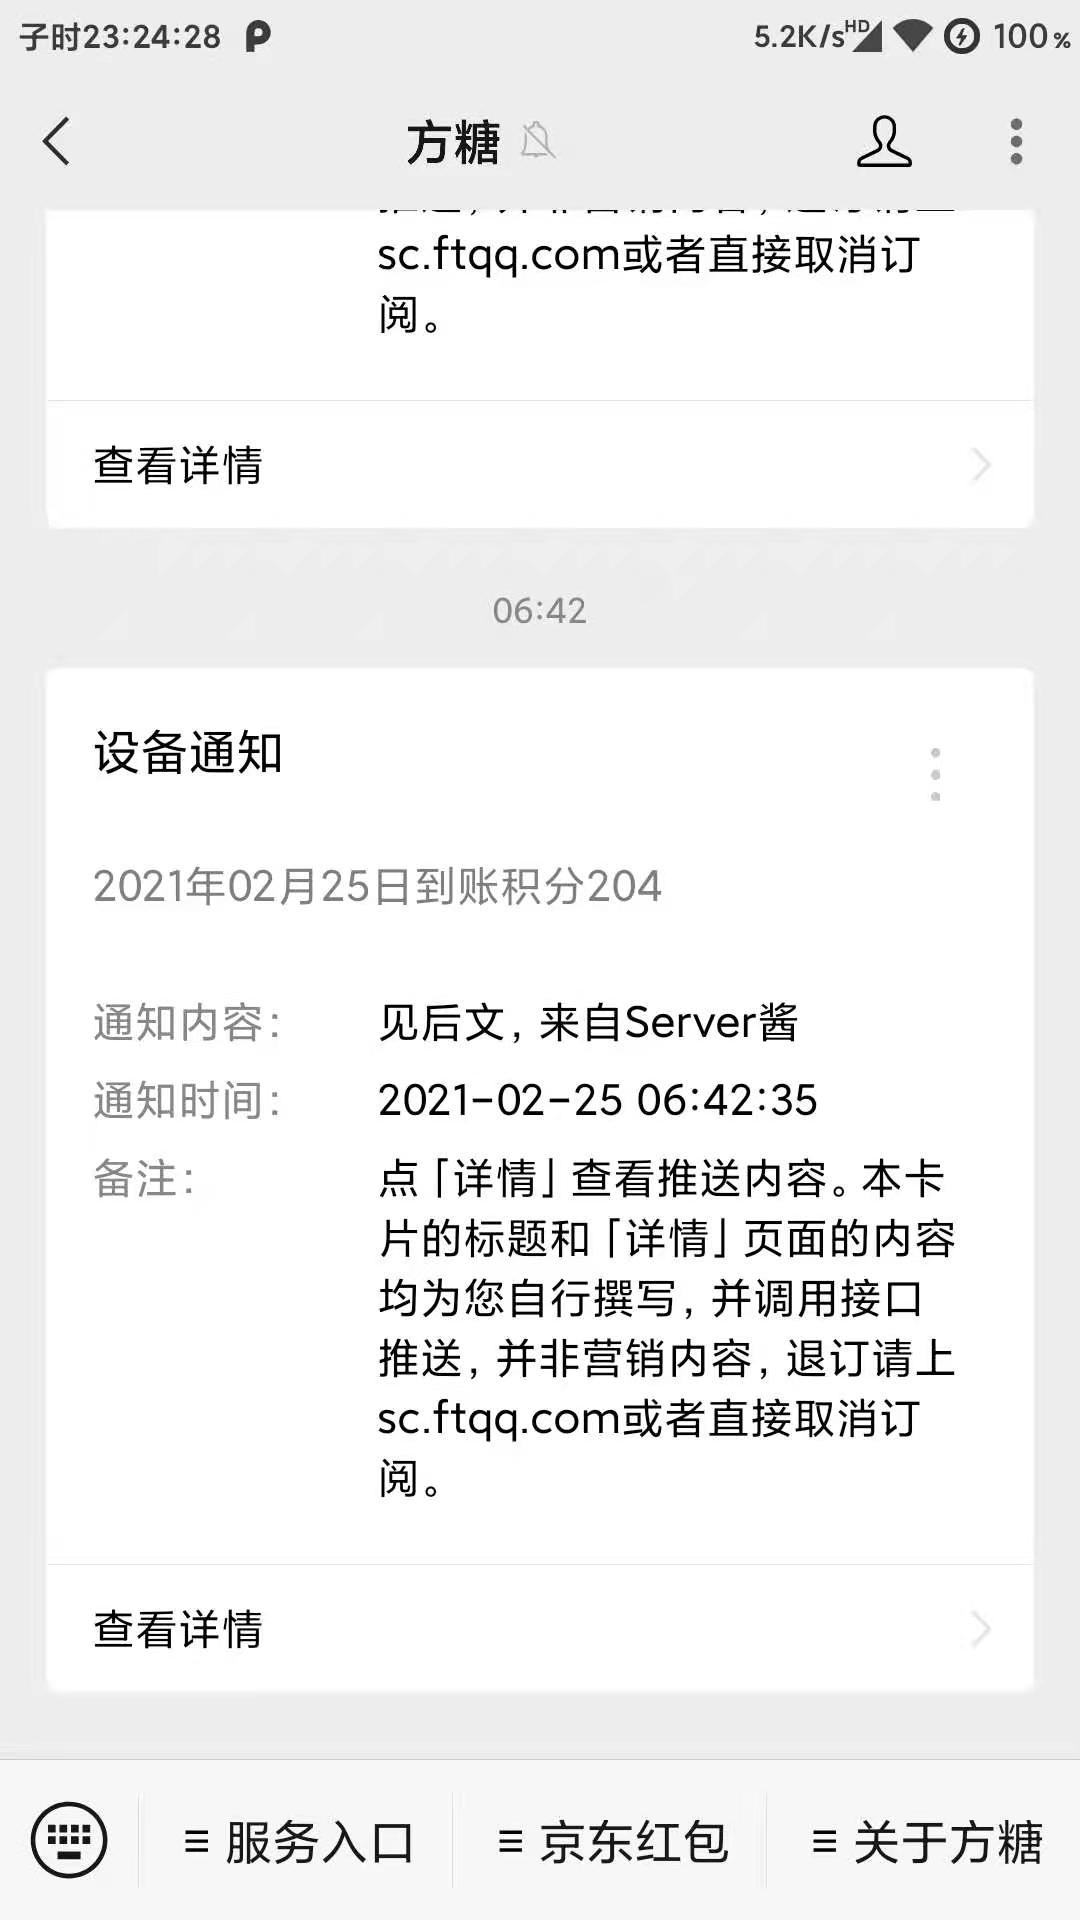
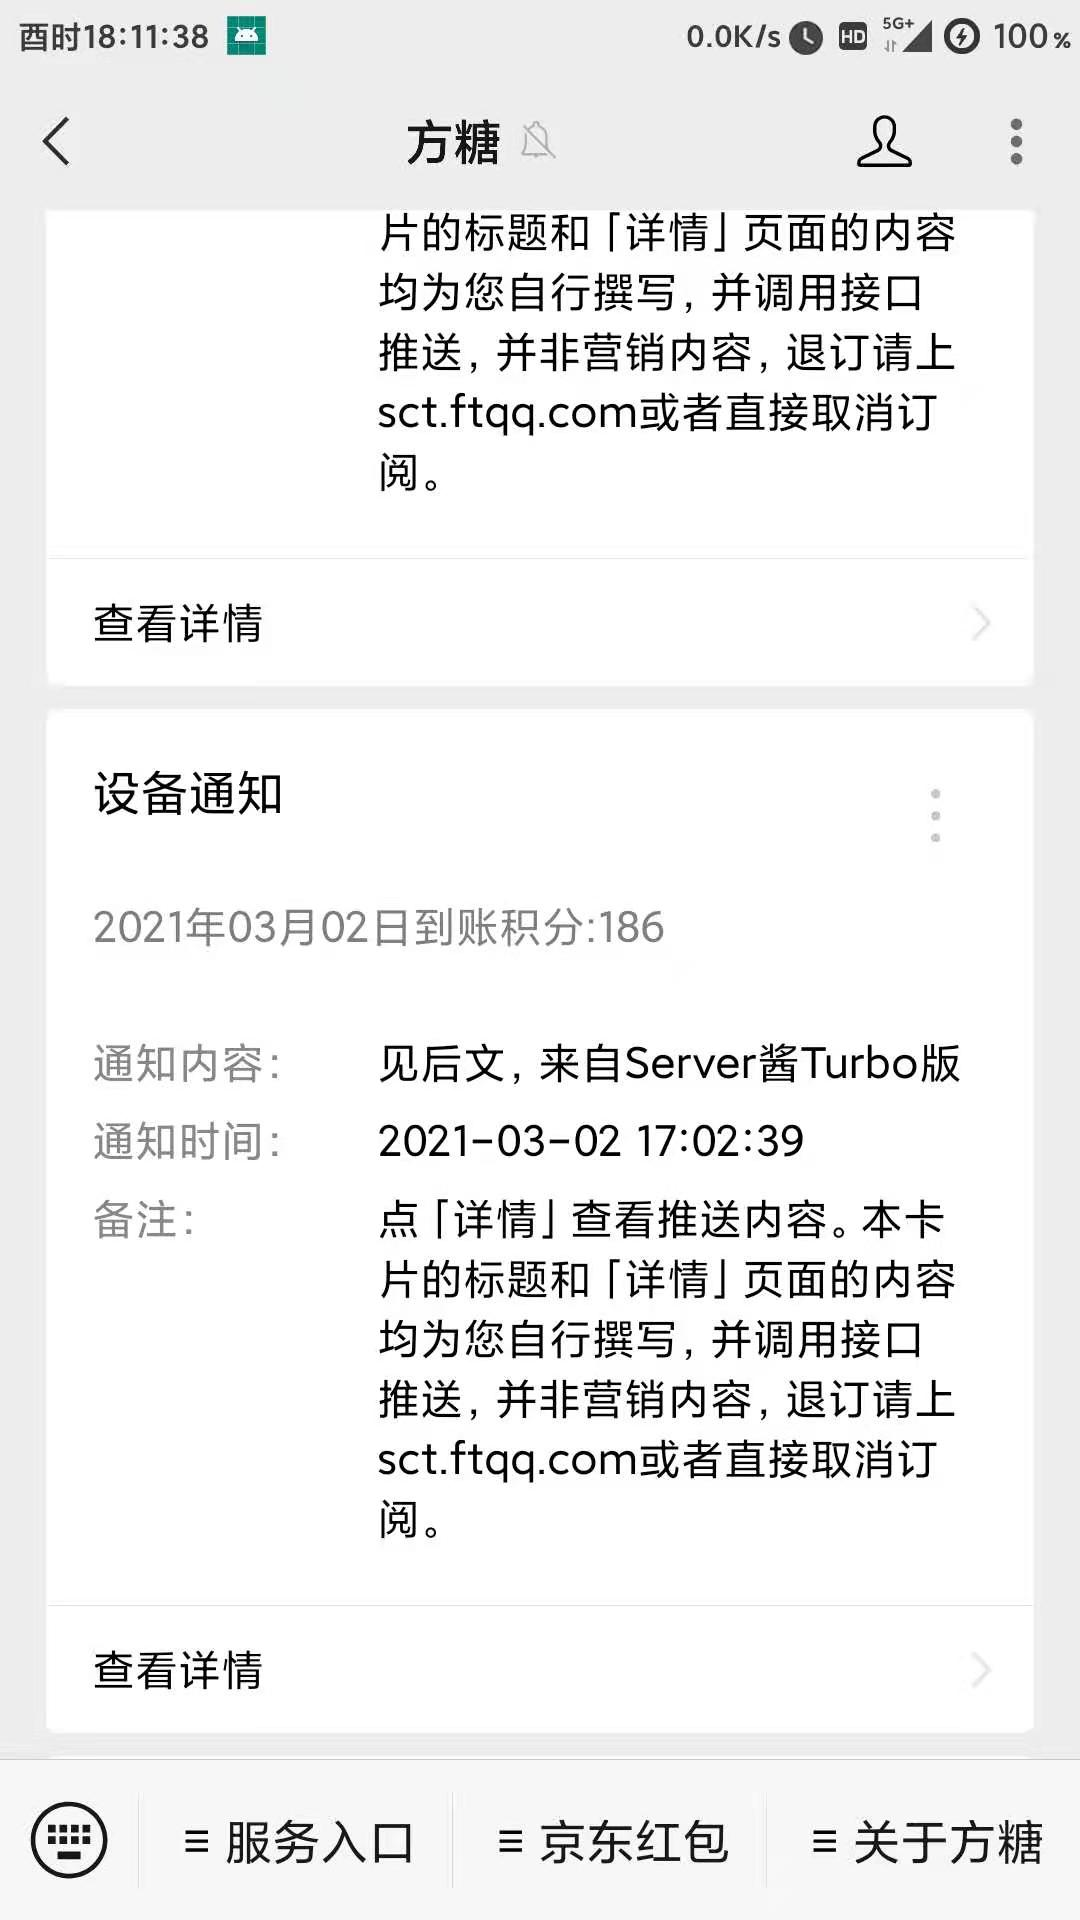
Update img

diff --git a/README.md b/README.md
@@ -9,6 +9,12 @@ JDRouterPush
 本项目调用京东云无线宝API,可每天定时推送积分收益情况,帮助你更好的观察主要信息
 
 ## 更新日志
+### 2021-03-02: 
+1. 查询绑定的京东账户
+2. 通知排版优化
+3. 脚本检测更新
+4. 支持Server酱Turbo版
+
 ### 2021-02-25: 
 1. 实现多设备查询
 2. 查询今日收益,总收益,可用收益
